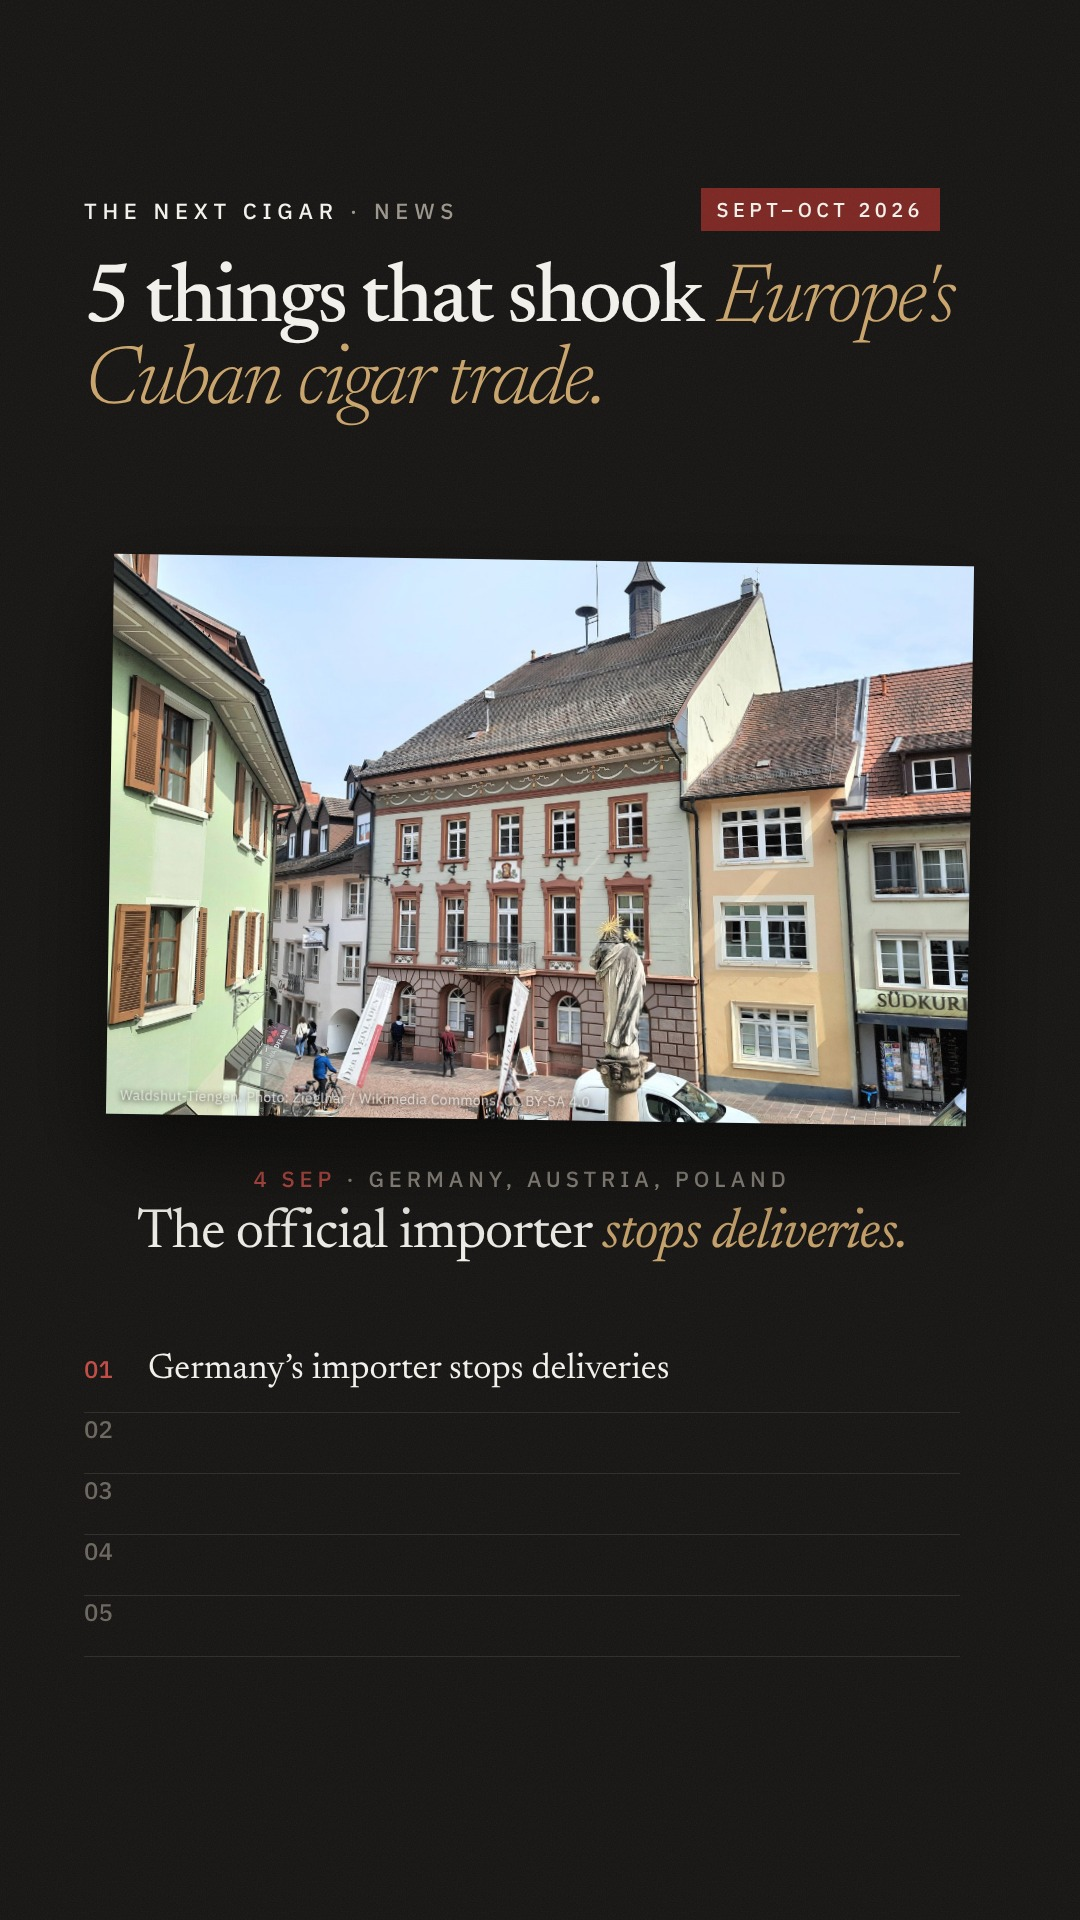
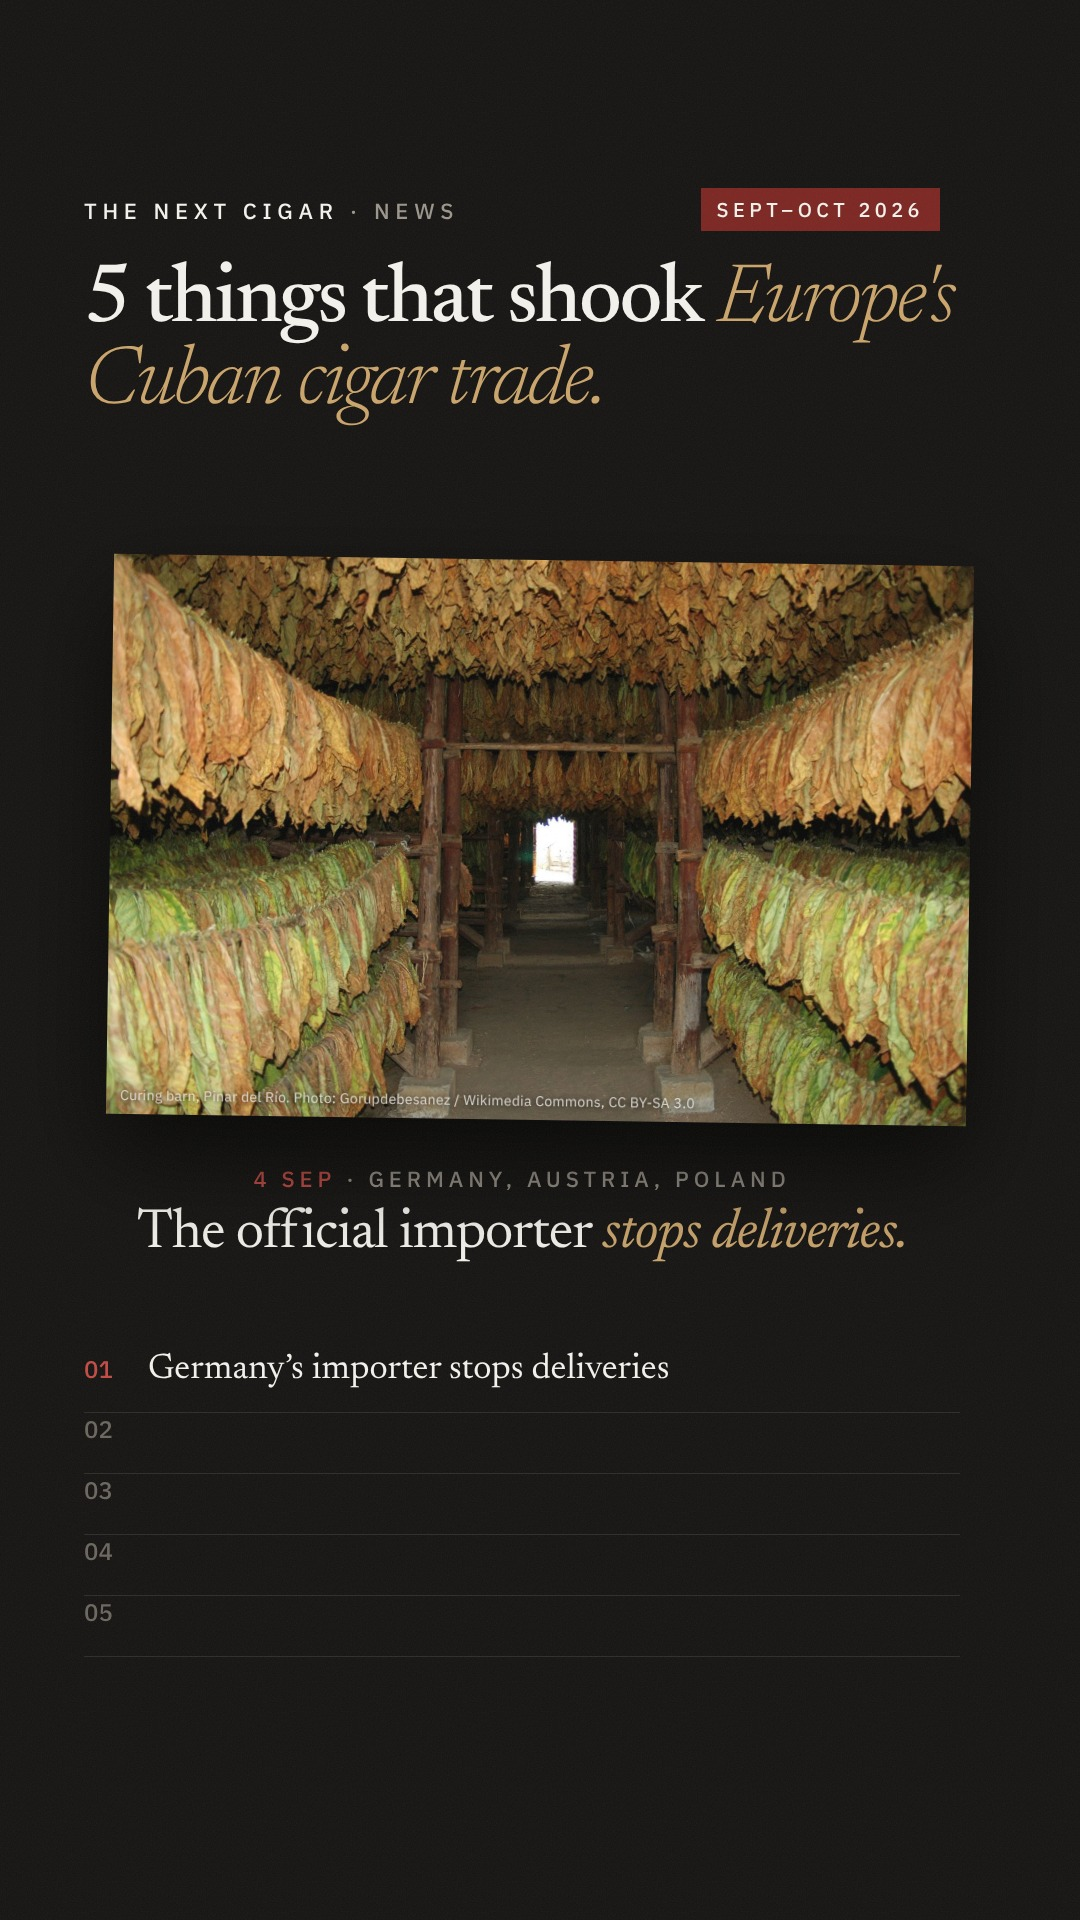
Reel 01: cigar-world photos (fields, curing barns, rollers; no bands or brands), credits updated
Claude-Session: https://claude.ai/code/session_01NDc9TrKsSQw4dbaGwkoFWp

Changed region(s): [[0.0917, 0.2812, 0.9167, 0.5938]]

diff --git a/docs/social/reels/01-autumn-2026-roundup/source.html b/docs/social/reels/01-autumn-2026-roundup/source.html
@@ -36,13 +36,13 @@ h1 i{font-style:italic;font-weight:300;color:#C9A36A}
 </div>
 <script>
 const items=[
- {img:'niebla.jpg',cr:'Photo: simon / Wikimedia Commons, CC BY 2.0',k:'<b>Sept–Oct 2026</b> · Europe',t:'Two months, <i>five stories.</i>',li:null},
- {img:'tiengen.jpg',cr:'Waldshut-Tiengen. Photo: Zieglhar / Wikimedia Commons, CC BY-SA 4.0',k:'<b>4 Sep</b> · Germany, Austria, Poland',t:'The official importer <i>stops deliveries.</i>',li:'Germany’s importer stops deliveries'},
- {img:'waldshut.jpg',cr:'Waldshut. Photo: Badener / Wikimedia Commons, CC BY-SA 3.0',k:'<b>September</b> · Germany',t:'The same company files <i>for insolvency.</i>',li:'It files for insolvency'},
- {img:'goteborg.jpg',cr:'Göteborg harbour. Photo: Slottsviken51 / Wikimedia Commons, CC BY-SA 4.0',k:'<b>11 Sep</b> · Nordics and Baltics',t:'Sweden’s importer loses its licence <i>for good.</i>',li:'Nordic importer loses its licence'},
- {img:'treasury.jpg',cr:'US Treasury. Photo: APK / Wikimedia Commons, CC BY-SA 4.0',k:'<b>The link</b> · Habanos S.A. ownership',t:'A part-owner is under <i>US, UK and EU sanctions.</i>',li:'The sanctions behind both'},
- {img:'brussels.jpg',cr:'Brussels. Photo: almathias / Wikimedia Commons, CC0',k:'<b>26 Oct</b> · Brussels',t:'EU tobacco tax talks <i>continue.</i>',li:'EU tobacco tax talks go on'},
- {img:'vinales.jpg',cr:'Viñales, Cuba. Photo: Ji-Elle / Wikimedia Commons, CC BY-SA 4.0',k:'<b>Full story</b> · dates and sources',t:'What it means <i>across Europe.</i>',li:null}
+ {img:'field.jpg',cr:'Tobacco plants, Pinar del Río. Photo: Eduardo Manchon / Wikimedia Commons, CC BY-SA 3.0',k:'<b>Sept–Oct 2026</b> · Europe',t:'Two months, <i>five stories.</i>',li:null},
+ {img:'barn.jpg',cr:'Curing barn, Pinar del Río. Photo: Gorupdebesanez / Wikimedia Commons, CC BY-SA 3.0',k:'<b>4 Sep</b> · Germany, Austria, Poland',t:'The official importer <i>stops deliveries.</i>',li:'Germany’s importer stops deliveries'},
+ {img:'rafters.jpg',cr:'Tobacco air curing, Cuba. Photo: Alexander Klink / Wikimedia Commons, CC BY 4.0',k:'<b>September</b> · Germany',t:'The same company files <i>for insolvency.</i>',li:'It files for insolvency'},
+ {img:'hands.jpg',cr:'Rolling a cigar, Cuba. Photo: kuhnmi / Wikimedia Commons, CC BY 2.0',k:'<b>11 Sep</b> · Nordics and Baltics',t:'Sweden’s importer loses its licence <i>for good.</i>',li:'Nordic importer loses its licence'},
+ {img:'hands-bw.jpg',cr:'Rolling a cigar in Cuba. Photo: FranHogan / Wikimedia Commons, CC BY-SA 4.0',k:'<b>The link</b> · Habanos S.A. ownership',t:'A part-owner is under <i>US, UK and EU sanctions.</i>',li:'The sanctions behind both'},
+ {img:'curing.jpg',cr:'Tobacco air curing, Cuba. Photo: Alexander Klink / Wikimedia Commons, CC BY 4.0',k:'<b>26 Oct</b> · Brussels',t:'EU tobacco tax talks <i>continue.</i>',li:'EU tobacco tax talks go on'},
+ {img:'roller.jpg',cr:'Tobacco roller near Pinar del Río. Photo: Adam Jones / Wikimedia Commons, CC BY-SA 3.0',k:'<b>Full story</b> · dates and sources',t:'What it means <i>across Europe.</i>',li:null}
 ];
 const T0=2.2, D=3.5, OUT=T0+5*D, TOTAL=OUT+3.6;
 const cards=document.getElementById('cards'), list=document.getElementById('list');

diff --git a/docs/social/reels/01-autumn-2026-roundup/caption.md b/docs/social/reels/01-autumn-2026-roundup/caption.md
@@ -24,15 +24,17 @@ Sources: Cigar Aficionado (11 Sep), Finews (14 Sep), Realtid (22 Oct), Council o
 
 ## Image credits (also printed on each image)
 
+All images show the cigar world with no cigar bands, box logos or brand names (see the compliance note).
+
 | Item | File | Credit | Licence |
 |---|---|---|---|
-| Intro | Niebla en Viñales, Cuba | simon / Wikimedia Commons | CC BY 2.0 |
-| 01 | Tiengen Altstadt 4 | Zieglhar / Wikimedia Commons | CC BY-SA 4.0 |
-| 02 | Waldshut WT Altstadt | Badener / Wikimedia Commons | CC BY-SA 3.0 |
-| 03 | Port Cranes in Gothenburg Harbour | Slottsviken51 / Wikimedia Commons | CC BY-SA 4.0 |
-| 04 | Treasury Building at night | APK / Wikimedia Commons | CC BY-SA 4.0 |
-| 05 | Berlaymont building in Brussels | almathias / Wikimedia Commons | CC0 |
-| Outro | Vallée de Viñales – Mogotes (3) | Ji-Elle / Wikimedia Commons | CC BY-SA 4.0 |
+| Intro | Tobacco plants in Pinar del Rio | Eduardo Manchon / Wikimedia Commons | CC BY-SA 3.0 |
+| 01 | Tobacco drying in Pinar del Río (01) | Gorupdebesanez / Wikimedia Commons | CC BY-SA 3.0 |
+| 02 | Tobacco Air Curing Cuba2 | Alexander Klink / Wikimedia Commons | CC BY 4.0 |
+| 03 | Rolling a Cuban Cigar | kuhnmi / Wikimedia Commons | CC BY 2.0 |
+| 04 | Rolling a cigar in Cuba | FranHogan / Wikimedia Commons | CC BY-SA 4.0 |
+| 05 | Tobacco Air Curing Cuba1 | Alexander Klink / Wikimedia Commons | CC BY 4.0 |
+| Outro | Tobacco Roller on Plantation Near Pinar del Rio | Adam Jones / Wikimedia Commons | CC BY-SA 3.0 |
 
 ## Fact check (each line → source)
 - 4 Sep stop, frozen accounts: Finews 14 Sep. Germany/Austria/Poland, insolvency, administrator: Cigar Aficionado 11 Sep.
